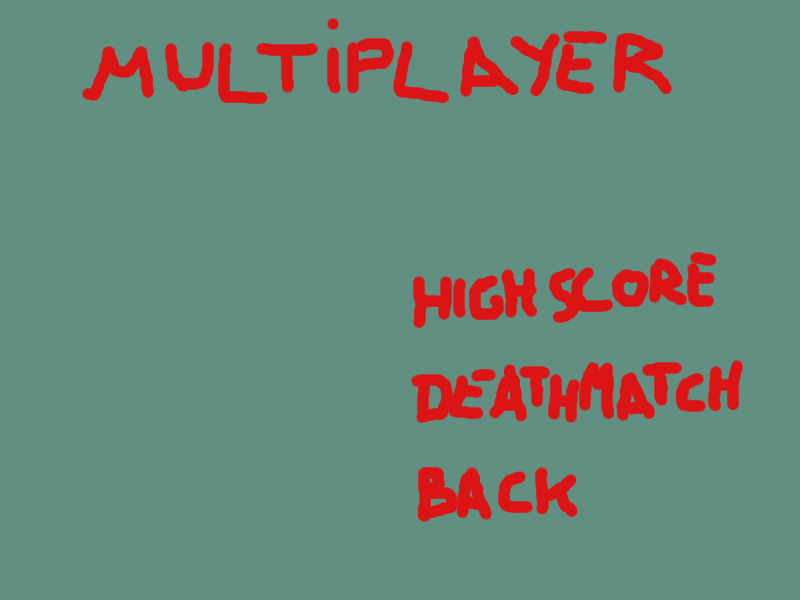
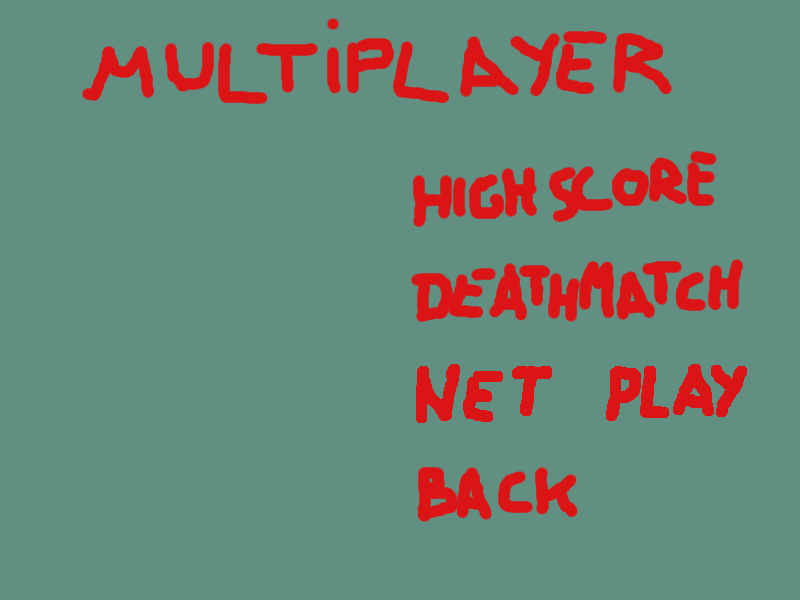
Some more steps in net game:  - added menu option  - added more data to game state  - game over detection  - trying to avoid resetting the server manually

Changed region(s): [[0.5, 0.42, 0.9375, 0.54], [0.5, 0.6, 0.9375, 0.72], [0.5, 0.24, 0.9062, 0.39]]

diff --git a/src/Net.cpp b/src/Net.cpp
@@ -21,6 +21,7 @@
 #include <stdexcept>
 #include <sstream>
 #include <cstring>
+#include <cassert>
 #include "Net.hpp"
 
 namespace
@@ -84,17 +85,27 @@ Server::listen()
             {
                 SDLNet_UDP_Recv(_socket, _packet);
                 procPacket();
-                //std::string str((const char *)_packet->data, _packet->len);
-                //SDLNet_UDP_Send(_socket, -1, _packet);
             }
         }
     }
 }
 
 void
+Server::sendPacket()
+{
+    int sent = SDLNet_UDP_Send(_socket, _packet->channel, _packet);
+    if (!sent)
+    {
+        std::ostringstream msg;
+        msg << "Error sending packet: " << SDLNet_GetError();
+        throw std::runtime_error(msg.str());
+    }
+}
+
+void
 Server::procPacket()
 {
-    Packet *p = (Packet *)_packet->data;
+    Packet *p = reinterpret_cast<Packet *>(_packet->data);
     switch (p->type)
     {
         case PTConnReq:
@@ -105,11 +116,13 @@ Server::procPacket()
                 p->protocol = ECFull;
                 if (int(_clients.size()) < maxClients)
                 {
+                    p->id = _clients.size();
                     _clients.push_back(_packet->address);
                     p->protocol = ECNoError;
                 }
             }
-            SDLNet_UDP_Send(_socket, -1, _packet);
+            p->time = time(NULL);
+            sendPacket();
             if (!_playing && _clients.size() == maxClients)
             {
                 startGame();
@@ -130,37 +143,59 @@ Server::procPacket()
 void
 Server::startGame()
 {
-    Packet *p = (Packet *)_packet->data;
+    Packet *p = reinterpret_cast<Packet *>(_packet->data);
+    p->time = time(NULL);
     p->type = PTStartGame;
     for (unsigned int i = 0; i < _clients.size(); ++i)
     {
         _packet->address = _clients[i];
-        SDLNet_UDP_Send(_socket, -1, _packet);
+        sendPacket();
     }
+
+    _gOver.resize(_clients.size(), false);
+    _playing = true;
 }
 
-//TODO: this could be really improved
+void
+Server::gameOver()
+{
+    _clients.clear();
+    _gOver.clear();
+    _playing = false;
+}
+
 void
 Server::relayPacket()
 {
-    int orig = -1;
+    Packet *p = reinterpret_cast<Packet *>(_packet->data);
+    const int id = p->id;
+    assert (id >= 0 && id < _clients.size());
+
     for (unsigned int i = 0; i < maxClients; ++i)
     {
-        if (_packet->address.port == _clients[i].port)
-            orig = i;
-    }
-    for (unsigned int i = 0; i < maxClients; ++i)
-    {
-        if (i == orig)
+        if (id == i) //don't relay to oneself
             continue;
         _packet->address = _clients[i];
-        SDLNet_UDP_Send(_socket, -1, _packet);
+        sendPacket();
+    }
+
+    //TODO: temporary way
+    if (p->state.gameOver)
+    {
+        bool gOver;
+        _gOver[id] = true;
+        for (unsigned int i = 0; i < _gOver.size(); ++i)
+            if (!_gOver[i])
+                gOver = false;
+        if (gOver)
+            gameOver();
     }
 }
 
 Client::Client():
     _socket(0),
     _socketSet(0),
+    _id(-1),
     _connected(false),
     _timerID(0),
     _startGame(false),
@@ -168,6 +203,7 @@ Client::Client():
 {
     initSDLNet();
     _packet = SDLNet_AllocPacket(MAX_PACKET_SIZE);
+    initSocket();
 }
 
 Client::~Client()
@@ -195,6 +231,8 @@ Client::preparePacket(const Packet &p)
 void
 Client::sendPacket()
 {
+    Packet *p = reinterpret_cast<Packet *>(_packet->data);
+    p->time = time(NULL);
     int sent = SDLNet_UDP_Send(_socket, _packet->channel, _packet);
     if (!sent)
     {
@@ -227,8 +265,7 @@ Client::initSocket()
 bool
 Client::connect()
 {
-    initSocket();
-    if (SDLNet_ResolveHost(&_ipServer, "localhost", 8888) == -1)
+    if (SDLNet_ResolveHost(&_ipServer, "cubata.homelinux.net", 8888) == -1)
         throw std::runtime_error("Error resolving server IP");
     Packet p;
     p.type = PTConnReq;
@@ -290,7 +327,7 @@ Client::newState(Board::State &state)
 void
 Client::procPacket()
 {
-    Packet *p = (Packet *)_packet->data;
+    Packet *p = reinterpret_cast<Packet *>(_packet->data);
     switch (p->type)
     {
         case PTConnReq:

diff --git a/src/Main.cpp b/src/Main.cpp
@@ -198,6 +198,12 @@ Main::play()
                 {
                     id = 1;
                     _boards[id]->setState(state);
+                    if (state.gameOver)
+                    {
+                        gOver[id] = true;
+                        if (gameOver(gOver))
+                            cause = GameOver;
+                    }
                     repaint = true;
                 }
             }
@@ -327,16 +333,17 @@ Main::gameOver(const std::vector<bool> &gOver)
 {
     switch (_gameMode)
     {
-        case Main::GMSinglePlayer:
+        case GMSinglePlayer:
             return gOver[0];
             break;
-        case Main::GMHiScore:
+        case GMHiScore:
+        case GMNet: //for the moment, it's the same as hiscore
             for (unsigned int i = 0; i < gOver.size(); ++i)
                 if (!gOver[i])
                     return false;
             return true;
             break;
-        case Main::GMDeathMatch:
+        case GMDeathMatch:
             {
                 int pAlive = 0;
                 for (unsigned int i = 0; i < gOver.size(); ++i)
@@ -347,9 +354,6 @@ Main::gameOver(const std::vector<bool> &gOver)
                     return true;
                 return false;
             }
-            break;
-        case GMNet:
-            return false;
             break;
     }
     // make g++ happy
@@ -410,14 +414,17 @@ Main::waitForGame()
     {
         if (SDL_WaitEvent(&event))
         {
-            if (event.type == EVT_CHECK_NET)
-            {
-                _client.listen(1);
-                go = _client.startGame();
-            }
-            else if (event.type == SDL_QUIT)
+            InputMgr::KeyPressed keyPress;
+            keyPress = _rsc->getKey(event);
+            if (keyPress.key == InputMgr::QUIT ||
+                    event.type == SDL_QUIT)
             {
                 return false;
+            }
+            else if (event.type == EVT_CHECK_NET)
+            {
+                _client.listen(0);
+                go = _client.startGame();
             }
         }
     }
@@ -595,7 +602,7 @@ Main::MPMenu::MPMenu(Resources *rsc):
     const int scaledSelSize = SelStepPx * _rsc->getBgScale();
     SDL_Rect rect;
     rect.x = scrW / 2 - scaledSelSize;
-    rect.y = scrH / 2 - scaledSelSize/2;
+    rect.y = scrH / 2 - scaledSelSize - scaledSelSize/2;
     for (int i = 0; i < MPMenu::NumOptions; ++i)
     {
         _selOptRect.push_back(rect);
@@ -634,11 +641,7 @@ Main::MPMenu::operator()()
                             _selOpt++;
                         break;
                     case InputMgr::BUT_A:
-                        //TODO: fix this testing hack
-                        if (_selOpt == 2)
-                            option = GameNet;
-                        else
-                            option = static_cast<Option>(_selOpt);
+                        option = static_cast<Option>(_selOpt);
                         break;
                     case InputMgr::QUIT:
                         option = Quit;

diff --git a/src/Net.hpp b/src/Net.hpp
@@ -20,6 +20,7 @@
 #define NET_HPP
 
 #include <vector>
+#include <ctime>
 #include "SDL_net.h"
 #include "Board.hpp"
 
@@ -43,6 +44,8 @@ enum ErrorConnection
 
 struct Packet
 {
+    time_t time;
+    int id;
     PacketType type;
     union
     {
@@ -62,14 +65,17 @@ class Server
     private:
         static const int maxClients;
 
+        void sendPacket();
         void procPacket();
         void startGame();
+        void gameOver();
         void relayPacket();
 
         UDPsocket _socket;
         SDLNet_SocketSet _socketSet;
         UDPpacket *_packet;
         std::vector<IPaddress> _clients;
+        std::vector<bool> _gOver;
         bool _playing;
 };
 
@@ -95,6 +101,7 @@ class Client
         SDLNet_SocketSet _socketSet;
         UDPpacket *_packet;
         IPaddress _ipServer;
+        int _id;
         bool _connected;
         SDL_TimerID _timerID;
         bool _startGame;

diff --git a/src/Main.hpp b/src/Main.hpp
@@ -65,11 +65,11 @@ class Main
                 {
                     GameHiScore = 0,
                     GameDeathMatch,
+                    GameNet,
                     Back,
                     NumOptions,
                     Quit, //not on the menu
-                    InvalidOption,
-                    GameNet
+                    InvalidOption
                 };
 
                 MPMenu(Resources *rsc);
